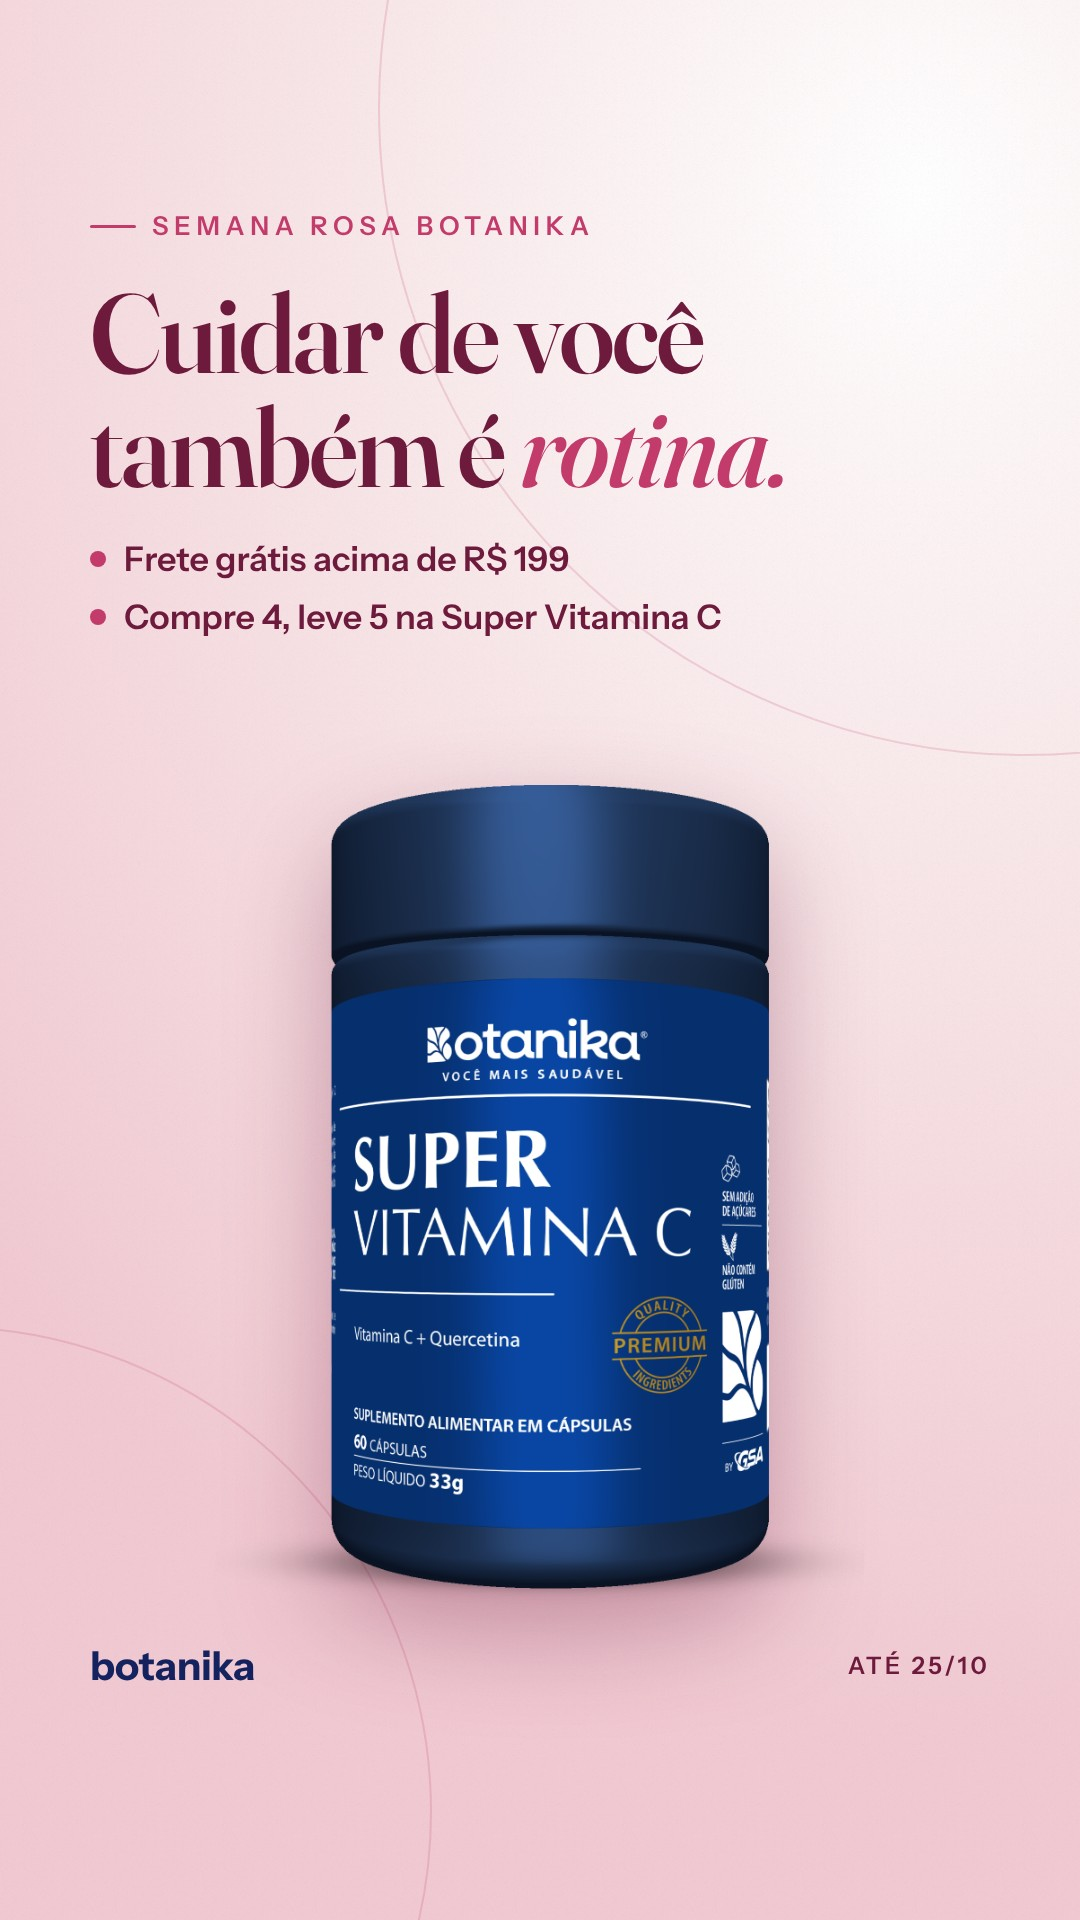
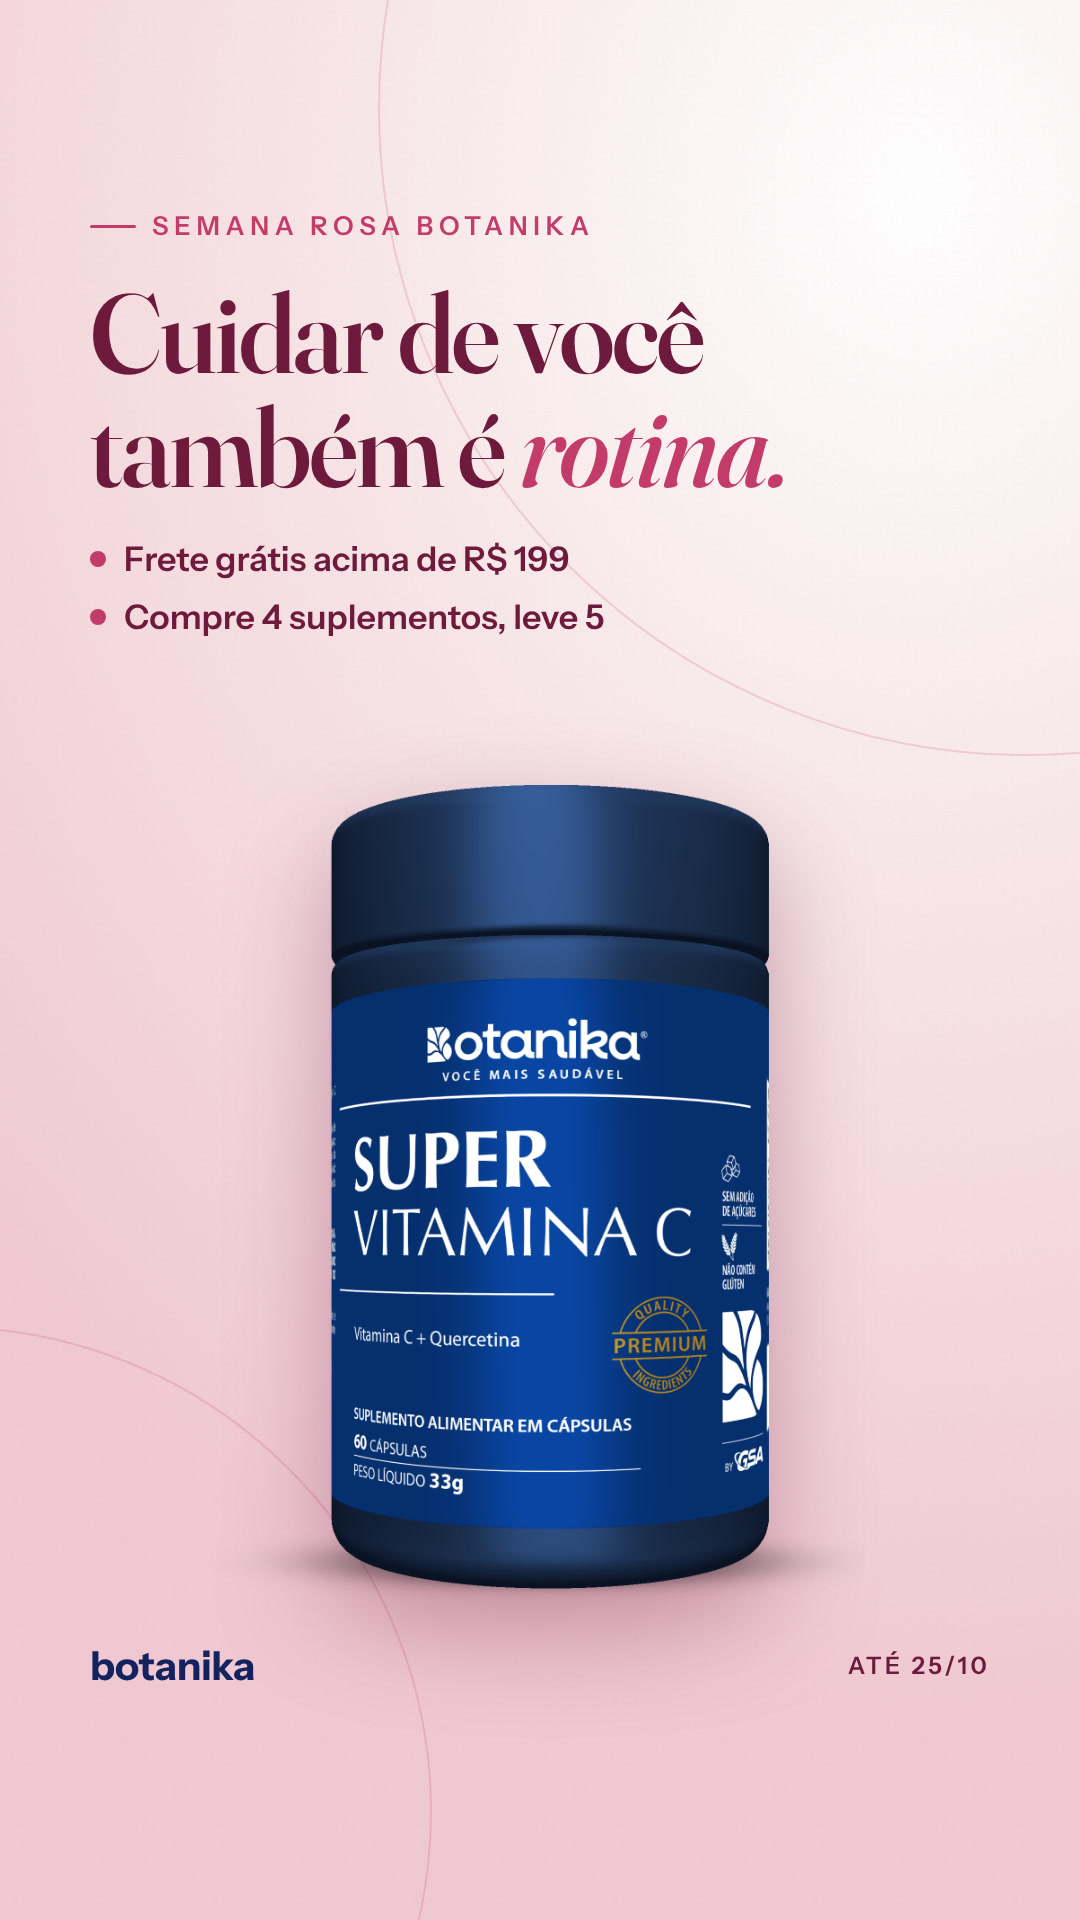
Semana Rosa: estáticos com a mecânica compre 4 suplementos, leve 5 (Vit C de presente)
Claude-Session: https://claude.ai/code/session_01CkWjHCNPbxAm891vse1cZ8

Changed region(s): [[0.275, 0.3125, 0.6722, 0.3438], [0.55, 0.6562, 0.6722, 0.75]]

diff --git a/semana-rosa-estaticos/_gerador.js b/semana-rosa-estaticos/_gerador.js
@@ -32,12 +32,12 @@ const PIECES = [
   { id: 'E02', momento: 'antecipacao', kicker: 'Outubro Rosa', h: 'Cuidar de si não é luxo. <em>É rotina.</em>', sub: 'Exames em dia, rotina em dia.<br>Segunda tem novidade.', art: 'ribbon' },
   { id: 'E03', momento: 'antecipacao', kicker: 'Semana Rosa Botanika', h: 'Coloque <em>você</em> na agenda.', sub: '19 a 25/10', art: 'agenda' },
   { id: 'E04', momento: 'e-amanha', kicker: 'Semana Rosa Botanika', h: 'É <em>amanhã.</em>', sub: 'Abre segunda, 00h', art: 'ribbon', seal: ['100 primeiros', 'frete grátis'] },
-  { id: 'E05', momento: 'e-amanha', kicker: 'Segunda, 00h', h: 'Meia-noite começa a <em>Semana Rosa.</em>', bullets: ['Frete grátis acima de R$ 199', 'Compre 4, leve 5 na Super Vitamina C'], art: 'bottle' },
+  { id: 'E05', momento: 'e-amanha', kicker: 'Segunda, 00h', h: 'Meia-noite começa a <em>Semana Rosa.</em>', bullets: ['Frete grátis acima de R$ 199', 'Compre 4 suplementos, leve 5'], art: 'bottle' },
   { id: 'E06', momento: 'oferta', kicker: 'Semana Rosa Botanika', h: 'Frete grátis acima de <em>R$ 199.</em>', sub: 'Até domingo, 25/10', art: 'ribbon', seal: ['100 primeiros', 'frete grátis sem mínimo'] },
-  { id: 'E07', momento: 'oferta', kicker: 'Super Vitamina C', h: 'Compre 4. <em>Leve 5.</em>', sub: 'Vitamina C + Quercetina + Própolis', art: 'five', seal: ['Frete grátis', 'acima de R$ 199'] },
-  { id: 'E08', momento: 'oferta', kicker: 'Semana Rosa Botanika', h: 'Cuidar de você também é <em>rotina.</em>', bullets: ['Frete grátis acima de R$ 199', 'Compre 4, leve 5 na Super Vitamina C'], art: 'bottle' },
+  { id: 'E07', momento: 'oferta', kicker: 'Semana Rosa', h: 'Compre 4. <em>Leve 5.</em>', sub: 'Escolha 4 suplementos: a Super Vitamina C é presente', art: 'five', seal: ['Frete grátis', 'acima de R$ 199'] },
+  { id: 'E08', momento: 'oferta', kicker: 'Semana Rosa Botanika', h: 'Cuidar de você também é <em>rotina.</em>', bullets: ['Frete grátis acima de R$ 199', 'Compre 4 suplementos, leve 5'], art: 'bottle' },
   { id: 'E09', momento: 'oferta-remarketing', kicker: 'Semana Rosa Botanika', h: 'Seu carrinho ainda está <em>te esperando.</em>', sub: 'Na Semana Rosa, acima de R$ 199<br>o frete é por nossa conta.', art: 'cart' },
-  { id: 'E10', momento: 'ultima-chance', kicker: 'Termina hoje, 23h59', h: 'Última <em>chance.</em>', bullets: ['Frete grátis acima de R$ 199', 'Compre 4, leve 5 na Super Vitamina C'], art: 'bottle', urgent: true },
+  { id: 'E10', momento: 'ultima-chance', kicker: 'Termina hoje, 23h59', h: 'Última <em>chance.</em>', bullets: ['Frete grátis acima de R$ 199', 'Compre 4 suplementos, leve 5'], art: 'bottle', urgent: true },
   { id: 'E11', momento: 'ultima-chance', kicker: 'Semana Rosa Botanika', h: 'Hoje à meia-noite volta tudo <em>ao normal.</em>', sub: 'Aproveite enquanto dá.', art: 'ribbon', urgent: true },
 ];
 
